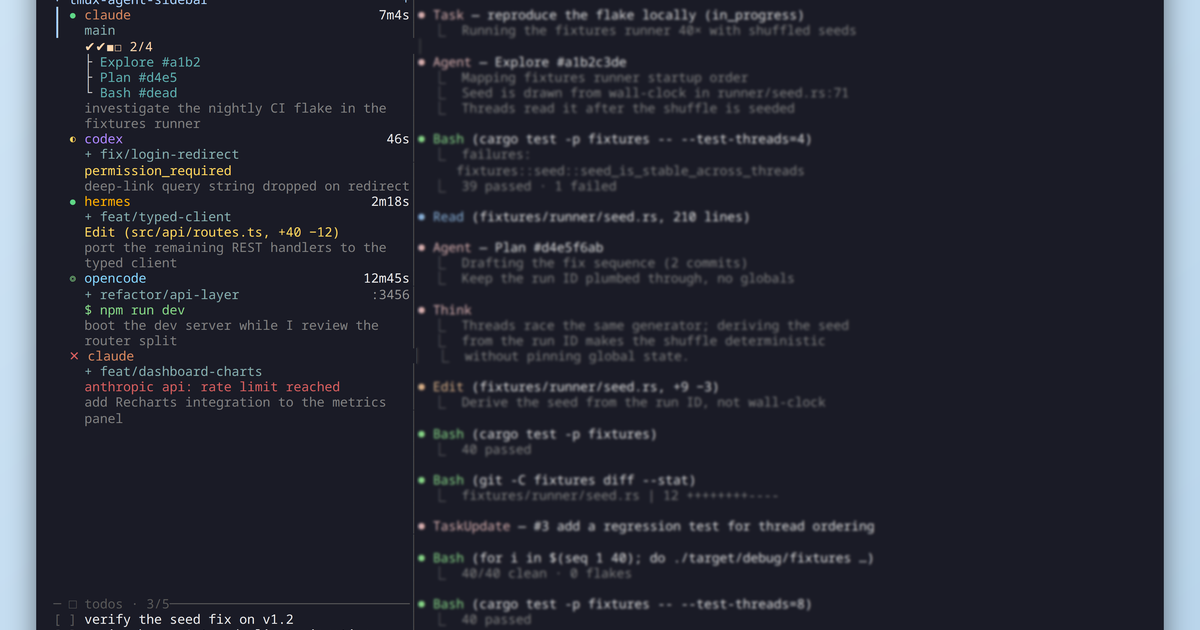
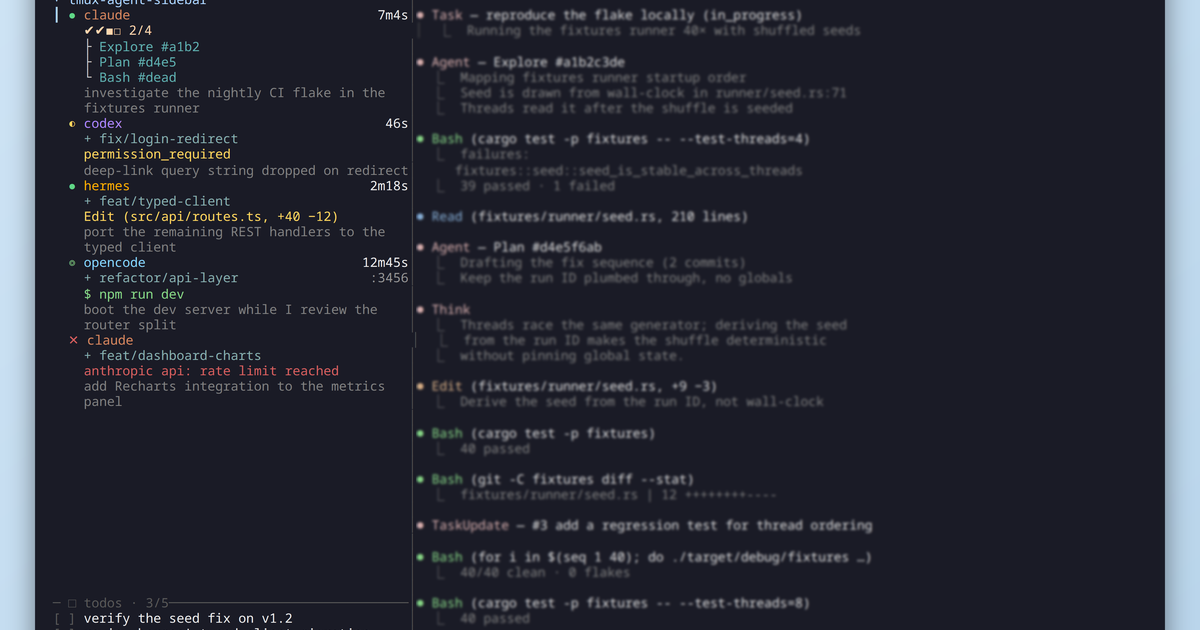
docs: capture the quick switcher and overview grid, refresh hero
New switcher/overview scenarios drive the popup subcommands' bare-TUI
mode in plain panes (what capture can see), sized to each popup's real
geometry; hero + og-image regenerated from the current release build.
Website gains feature pages for both, cards on the splash, sidebar
entries, and a switcher image in the README.

diff --git a/.claude/skills/regenerate-captures/SKILL.md b/.claude/skills/regenerate-captures/SKILL.md
@@ -35,11 +35,22 @@ For `hero`, an additional `scripts/hero-compose.mjs` pass produces `og-image.png
 |---|---|---|
 | `hero` | `hero.png` (+ `og-image.png`) | full 140×46 canvas; v1.3 release-prep scene — 5 agents (HERMES=1), TODO panel open, Claude transcript filling the right pane |
 | `agent-pane-focus` | `agent-pane-focus.png` | rows 0..26, cols 0..46 (agent list) |
-| `activity-focus` | `activity-focus.png` | rows 26..46, cols 0..46 (Activity tab) |
-| `git-focus` | `git-focus.png` | rows 26..46, cols 0..46 (Git tab) |
 | `worktree-spawn` | `worktree-spawn.png` | rows 3..15, cols 0..32 (spawn popup) |
+| `switcher` | `switcher.png` | full 112×28 session — the `switch` TUI in a plain pane sized to the popup's default geometry (80%×60% of 140×46); 5 agents (HERMES=1), MRU seeded so the selection rests on the waiting codex |
+| `overview` | `overview.png` | full 140×46 session — the `overview` TUI in a plain pane (the fullscreen popup's render); 5 agents (HERMES=1), every pane painted with a stream so each cell shows transcript content |
 
-All scenarios share `build_layout` in `_lib.sh`, so a change to the seeded pane state can affect multiple outputs. Before regenerating, decide which PNGs are actually affected (e.g. a port change only shows in the agent list → `hero` + `agent-pane-focus` only; a bottom-tab change → `activity-focus` or `git-focus`).
+`activity-focus` / `git-focus` scenarios no longer exist; their PNGs were
+dropped from the site.
+
+Both popup subcommands render the identical frame inside a tmux popup (which
+`capture` cannot see) and inside a plain pane (which it can), so the
+scenarios run the bare `switch` / `overview` TUI in a dedicated
+`tmux new-session -d -s <name> -x … -y …` session on the scenario's isolated
+server and capture that. The switcher/overview sessions live on the same
+isolated server as the agent layout on purpose — the switcher lists agent
+panes server-wide.
+
+All scenarios share `build_layout` in `_lib.sh`, so a change to the seeded pane state can affect multiple outputs. Before regenerating, decide which PNGs are actually affected (e.g. a port change only shows in the agent list → `hero` + `agent-pane-focus` + `overview` + `switcher`; a bottom-tab change → none of the popup captures).
 
 ## Procedure
 

diff --git a/README.md b/README.md
@@ -8,11 +8,14 @@
 
 - Tracks Claude Code, Codex, OpenCode, Hermes, and Antigravity panes across all tmux sessions and windows
 - Live prompts, response previews, background shells, wait reasons, task progress, and subagent trees
-- A status chyron narrates each agent's latest move, group headers fold with a click, and `o` opens a fullscreen overview grid of every pane — `p` prompts one live from the grid (the agent's own slash menus and all), `f` jumps in
+- A status chyron narrates each agent's latest move, group headers fold with a click, and `o` opens a fullscreen overview grid of every pane — `p` drives one live from the grid (the agent's own slash menus and all), `f` jumps in
+- The quick switcher (`switch`) is an alt-tab for agents: a fuzzy finder over live panes with recency ordering — `<key> <enter> <key> <enter>` bounces between the two agents you're working in
 - Spawn an agent from the sidebar — in the repo folder or a fresh worktree; tear down window, worktree, and branch in one keystroke
 - Plain shell panes are tracked too — long-running commands pulse as tasks, and an optional shell-integration snippet captures real exit codes
 - Desktop notifications when an agent finishes, needs permission, or errors out
 - A manual TODO list (`t`), shared across every open sidebar and saved between restarts — edit in place, `y` yanks an item, and `r` relaunches a resume-shaped one in a new window
+
+<p align="center"><img src="website/src/assets/captures/switcher.png" width="720" alt="The quick switcher — alt-tab between agent panes" /></p>
 
 ## Quick start
 
@@ -50,6 +53,13 @@ Optional: to detect shell-task failures, source the exit-code snippet in `~/.zsh
 ### 3. Toggle the sidebar
 
 `prefix + e` toggles it in the current window, `prefix + E` everywhere.
+
+Optional: bind the quick switcher and the overview grid globally —
+
+```tmux
+set -g @sidebar_switch_key s    # prefix + s opens the switcher
+set -g @sidebar_overview_key O  # prefix + O opens the overview grid
+```
 
 ## Documentation
 
